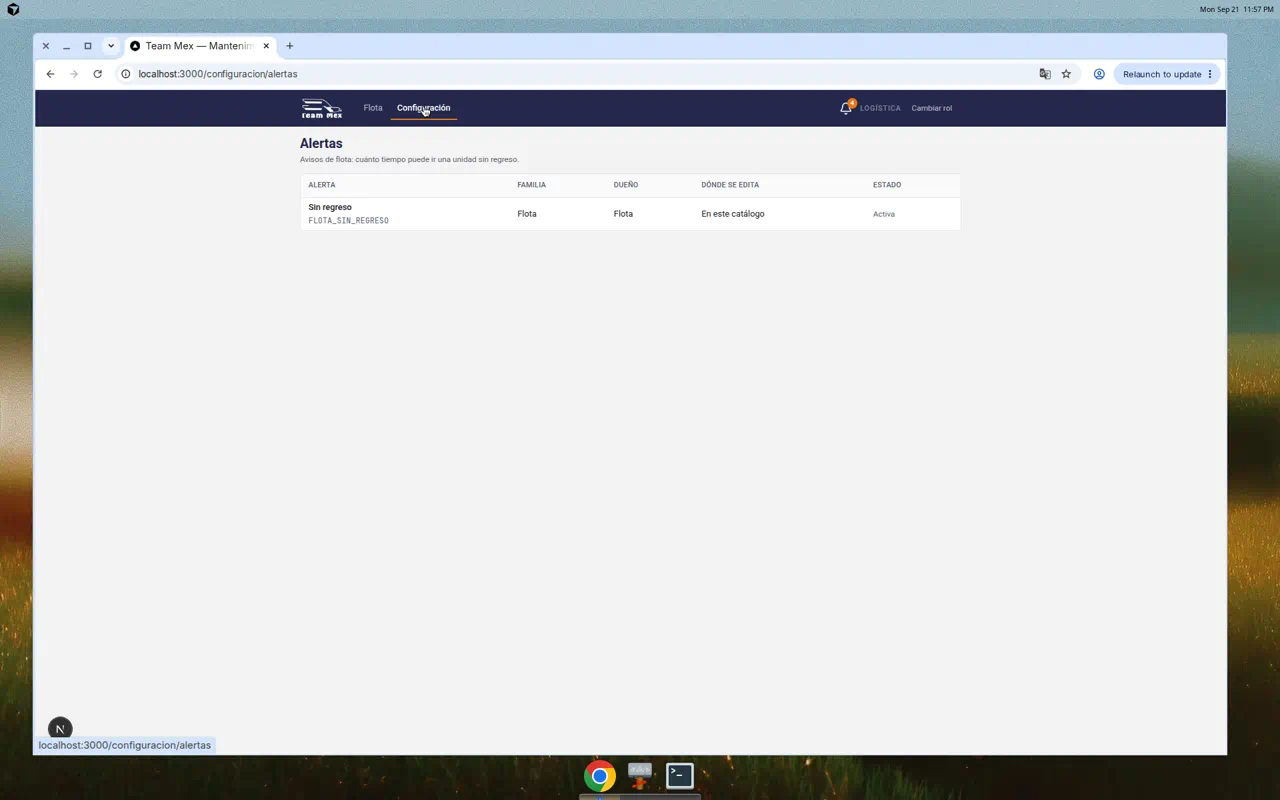
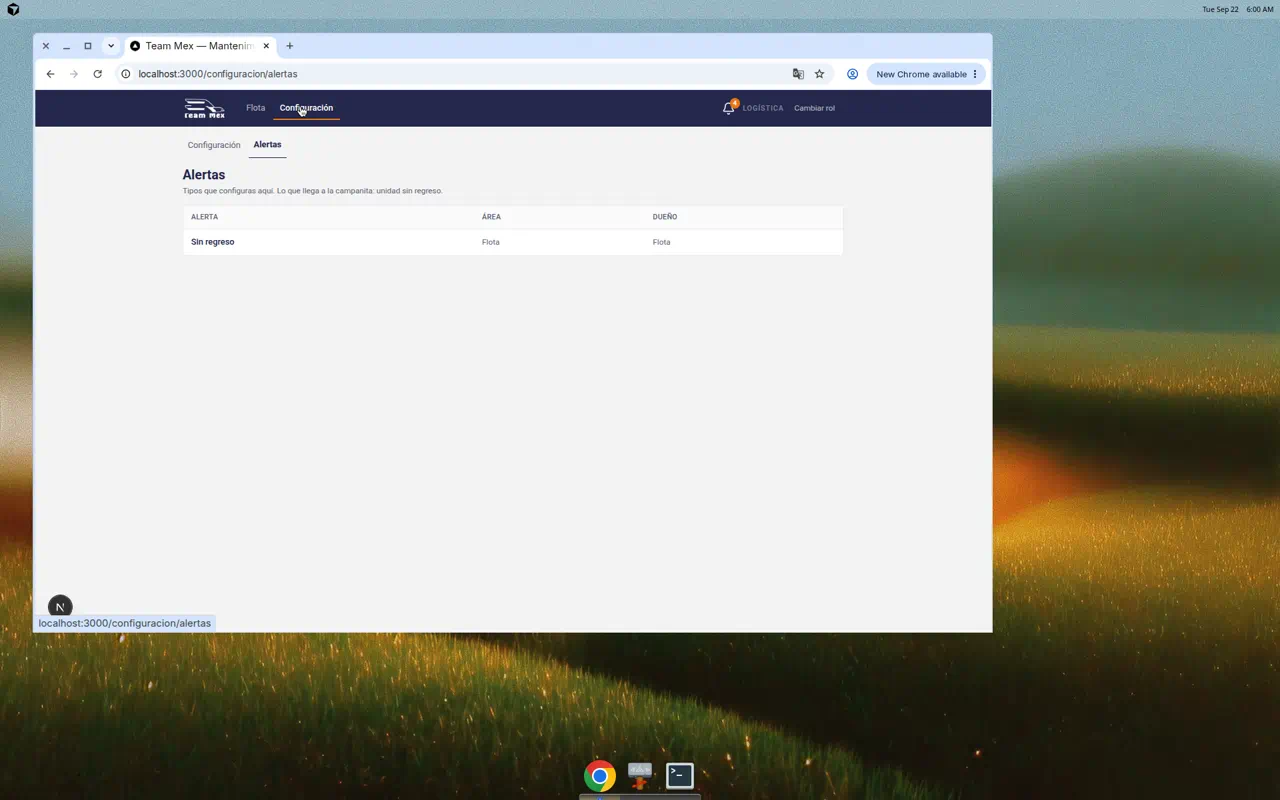
EWO-004: polish Configuración → Alertas catalog UI
EWO-004 polish: product names P0, no architecture column, one Admin orange, Configuración subnav. Experience Context Accepted gate cleared.

diff --git a/web/src/app/configuracion/alertas/page.tsx b/web/src/app/configuracion/alertas/page.tsx
@@ -3,7 +3,6 @@
 import { FormEvent, useEffect, useMemo, useState } from 'react';
 import { useRouter, useSearchParams } from 'next/navigation';
 import { ColumnDef } from '@tanstack/react-table';
-import { RoleGate } from '@/components/RoleGate';
 import { Badge } from '@/components/ui/badge';
 import { Button } from '@/components/ui/button';
 import { DataTable } from '@/components/ui/data-table';
@@ -41,16 +40,18 @@ function etiquetaModulo(mod: AlertOwningModule) {
   return 'Mantenimiento';
 }
 
-function etiquetaModo(mode: ThresholdMode) {
-  return mode === 'CATALOG' ? 'En este catálogo' : 'En el módulo';
+function ledeParaRol(role: Role | null) {
+  if (role === 'LOGISTICA') {
+    return 'Tipos que configuras aquí. Lo que llega a la campanita: unidad sin regreso.';
+  }
+  if (role === 'SUPERVISOR') {
+    return 'Tipos que configuras aquí. Lo que llega a la campanita: mantenimiento, existencias y salud.';
+  }
+  return 'Tipos que configuras aquí. Lo que llega a la campanita. Alta y baja solo en esta lista.';
 }
 
 export default function ConfiguracionAlertasPage() {
-  return (
-    <RoleGate allow={['SUPERVISOR', 'ADMIN_DIRECTIVO', 'LOGISTICA']}>
-      <CatalogContent />
-    </RoleGate>
-  );
+  return <CatalogContent />;
 }
 
 function CatalogContent() {
@@ -91,54 +92,46 @@ function CatalogContent() {
     // eslint-disable-next-line react-hooks/exhaustive-deps
   }, [role, userId, wantedCode]);
 
-  const columns = useMemo<ColumnDef<AlertType, unknown>[]>(
-    () => [
+  const columns = useMemo<ColumnDef<AlertType, unknown>[]>(() => {
+    const cols: ColumnDef<AlertType, unknown>[] = [
       {
         accessorKey: 'label',
         header: 'Alerta',
         cell: ({ row }) => (
-          <span>
-            <span className="font-medium">{row.original.label}</span>
-            <span className="mt-0.5 block font-mono text-[12px] text-muted-foreground">
-              {row.original.code}
-            </span>
-          </span>
+          <span className="font-medium text-navy">{row.original.label}</span>
         ),
       },
       {
         accessorKey: 'family',
-        header: 'Familia',
-        cell: ({ row }) => etiquetaFamilia(row.original.family),
+        header: 'Área',
+        cell: ({ row }) => (
+          <span className="text-[12px] text-muted-foreground">
+            {etiquetaFamilia(row.original.family)}
+          </span>
+        ),
       },
       {
         accessorKey: 'owningModule',
         header: 'Dueño',
-        cell: ({ row }) => etiquetaModulo(row.original.owningModule),
+        cell: ({ row }) => (
+          <span className="text-[12px] text-muted-foreground">
+            {etiquetaModulo(row.original.owningModule)}
+          </span>
+        ),
       },
-      {
-        accessorKey: 'thresholdMode',
-        header: 'Dónde se edita',
-        cell: ({ row }) => etiquetaModo(row.original.thresholdMode),
-      },
-      {
+    ];
+    if (isAdmin && (rows ?? []).some((row) => !row.active)) {
+      cols.push({
         accessorKey: 'active',
         header: 'Estado',
         cell: ({ row }) =>
-          isAdmin ? (
-            row.original.active ? (
-              <Badge variant="success">Activa</Badge>
-            ) : (
-              <Badge variant="muted">Inactiva</Badge>
-            )
-          ) : (
-            <span className="text-[12px] text-muted-foreground">
-              {row.original.active ? 'Activa' : 'Inactiva'}
-            </span>
+          row.original.active ? null : (
+            <Badge variant="muted">Inactiva</Badge>
           ),
-      },
-    ],
-    [isAdmin],
-  );
+      });
+    }
+    return cols;
+  }, [isAdmin, rows]);
 
   function openType(row: AlertType) {
     setSelected(row);
@@ -152,18 +145,11 @@ function CatalogContent() {
     router.replace('/configuracion/alertas');
   }
 
-  const lede =
-    role === 'LOGISTICA'
-      ? 'Avisos de flota: cuánto tiempo puede ir una unidad sin regreso.'
-      : role === 'SUPERVISOR'
-        ? 'Avisos de mantenimiento, existencias y salud. Lo que llega a la campanita.'
-        : 'Tipos de aviso de mantenimiento y flota. Alta y baja solo aquí.';
-
   return (
     <div className="unidades-page">
       <PageHeader
         title="Alertas"
-        lede={lede}
+        lede={ledeParaRol(role)}
         actions={
           isAdmin ? (
             <Button type="button" onClick={() => setCreateOpen(true)}>
@@ -275,7 +261,7 @@ function CreateAlertDialog({
           <DialogHeader>
             <DialogTitle>Nueva alerta</DialogTitle>
             <DialogDescription>
-              El código no cambia después.
+              Nombre que ve el taller. El código queda fijo.
             </DialogDescription>
           </DialogHeader>
           <div className="grid gap-3 py-3">
@@ -296,7 +282,7 @@ function CreateAlertDialog({
                 required
               />
             </Field>
-            <Field label="Familia" htmlFor="alerta-familia">
+            <Field label="Área" htmlFor="alerta-familia">
               <NativeSelect
                 id="alerta-familia"
                 value={family}
@@ -306,7 +292,7 @@ function CreateAlertDialog({
                 <option value="FLOTA">Flota</option>
               </NativeSelect>
             </Field>
-            <Field label="Módulo dueño" htmlFor="alerta-modulo">
+            <Field label="Dueño" htmlFor="alerta-modulo">
               <NativeSelect
                 id="alerta-modulo"
                 value={owningModule}
@@ -321,7 +307,7 @@ function CreateAlertDialog({
                 <option value="OTRO">Otro</option>
               </NativeSelect>
             </Field>
-            <Field label="Dónde se edita" htmlFor="alerta-modo">
+            <Field label="Se ajusta en" htmlFor="alerta-modo">
               <NativeSelect
                 id="alerta-modo"
                 value={thresholdMode}
@@ -329,8 +315,8 @@ function CreateAlertDialog({
                   setThresholdMode(e.target.value as ThresholdMode)
                 }
               >
-                <option value="MODULE">En el módulo</option>
-                <option value="CATALOG">En este catálogo</option>
+                <option value="MODULE">Unidades o existencias</option>
+                <option value="CATALOG">Esta lista</option>
               </NativeSelect>
             </Field>
             <label className="flex items-center gap-2 text-[13px]">
@@ -351,8 +337,8 @@ function CreateAlertDialog({
             >
               Cancelar
             </Button>
-            <Button type="submit" disabled={saving}>
-              {saving ? 'Guardando…' : 'Crear'}
+            <Button type="submit" variant="outline" disabled={saving}>
+              {saving ? 'Guardando…' : 'Guardar'}
             </Button>
           </DialogFooter>
         </form>
@@ -531,13 +517,17 @@ function TypeEditorDialog({
           <DialogHeader>
             <DialogTitle>{type.label}</DialogTitle>
             <DialogDescription>
-              {etiquetaFamilia(type.family)} · {etiquetaModulo(type.owningModule)}{' '}
-              · {etiquetaModo(type.thresholdMode)}
+              {etiquetaFamilia(type.family)} · {etiquetaModulo(type.owningModule)}
+              {isAdmin ? (
+                <span className="mt-0.5 block font-mono text-[12px] font-normal">
+                  {type.code}
+                </span>
+              ) : null}
             </DialogDescription>
           </DialogHeader>
           <div className="grid gap-3 py-3">
             {loading ? (
-              <p className="muted">Cargando configuración…</p>
+              <p className="muted">Cargando…</p>
             ) : (
               <>
                 {type.code === 'MTTO_VENCIDO' && payload?.umbrales ? (
@@ -599,13 +589,13 @@ function TypeEditorDialog({
                 {type.code === 'STOCK_BAJO' && payload?.items ? (
                   <div className="grid gap-2">
                     <p className="text-[13px] text-muted-foreground">
-                      Avisar cuando queden. Vacío = no avisar. También se edita en
+                      Avisar si quedan. Vacío = no avisar. También se edita en
                       Existencias.
                     </p>
                     {payload.items.map((row) => (
                       <Field
                         key={row.itemId}
-                        label={`${row.sku} · ${etiquetaMinimo(row.minQty)}`}
+                        label={`${row.nombre} · ${etiquetaMinimo(row.minQty)}`}
                         htmlFor={`min-${row.itemId}`}
                       >
                         <Input
@@ -663,11 +653,11 @@ function TypeEditorDialog({
                   <>
                     <Field
                       label="Local (horas)"
-                      htmlFor="umbral-local"
+                      htmlFor="horas-local"
                       help="Sale de CEDIS / patio. Reloj desde registrar salida."
                     >
                       <Input
-                        id="umbral-local"
+                        id="horas-local"
                         type="number"
                         min={1}
                         value={localH}
@@ -677,11 +667,11 @@ function TypeEditorDialog({
                     </Field>
                     <Field
                       label="Foránea (horas)"
-                      htmlFor="umbral-foraneo"
+                      htmlFor="horas-foraneo"
                       help="Viaje fuera. Reloj desde registrar salida."
                     >
                       <Input
-                        id="umbral-foraneo"
+                        id="horas-foraneo"
                         type="number"
                         min={1}
                         value={foraneoH}
@@ -723,7 +713,11 @@ function TypeEditorDialog({
                 Cancelar
               </Button>
               {canEditValues ? (
-                <Button type="submit" variant="outline" disabled={saving || loading}>
+                <Button
+                  type="submit"
+                  variant={isAdmin ? 'outline' : 'default'}
+                  disabled={saving || loading}
+                >
                   {saving ? 'Guardando…' : 'Guardar'}
                 </Button>
               ) : null}

diff --git a/web/src/components/ConfiguracionNav.tsx b/web/src/components/ConfiguracionNav.tsx
@@ -1,0 +1,21 @@
+'use client';
+
+import Link from 'next/link';
+
+/** Ubicación de sección (patrón 3 + chrome `.subnav`). No es sidebar de settings. */
+export function ConfiguracionNav() {
+  return (
+    <nav className="subnav" aria-label="Configuración">
+      <span className="inline-flex min-h-[var(--tap)] items-center px-2 text-[13px] text-muted-foreground">
+        Configuración
+      </span>
+      <Link
+        href="/configuracion/alertas"
+        className="active"
+        aria-current="page"
+      >
+        Alertas
+      </Link>
+    </nav>
+  );
+}

diff --git a/web/src/app/configuracion/layout.tsx b/web/src/app/configuracion/layout.tsx
@@ -1,0 +1,17 @@
+'use client';
+
+import { ConfiguracionNav } from '@/components/ConfiguracionNav';
+import { RoleGate } from '@/components/RoleGate';
+
+export default function ConfiguracionLayout({
+  children,
+}: {
+  children: React.ReactNode;
+}) {
+  return (
+    <RoleGate allow={['SUPERVISOR', 'ADMIN_DIRECTIVO', 'LOGISTICA']}>
+      <ConfiguracionNav />
+      {children}
+    </RoleGate>
+  );
+}

diff --git a/docs/design/PAGE_PATTERNS.md b/docs/design/PAGE_PATTERNS.md
@@ -28,7 +28,7 @@ No gráficas, no KPIs, no feed, no campanita duplicada.
 
 ## 3. Listado denso + filtro
 
-**Rutas:** Andon, Existencias, Refacciones, Movimientos, Por recibir, Flota (ops visual), Choferes, Sitios, Notificaciones.
+**Rutas:** Andon, Existencias, Refacciones, Movimientos, Por recibir, Flota (ops visual), Choferes, Sitios, Notificaciones, Configuración → Alertas.
 
 ```
 PageHeader (H1 + lede + acciones)
@@ -40,8 +40,9 @@ empty-state | “Cargando …”
 
 Unidades / Existencias (post-#65 revert): KPI strip + `unidades-toolbar` / tabla, no Mode B `ListChrome`. Flota visual Logística: same pre-#62 KPI strip (`unidades-kpis--ops`) + tabla; no assign desk.
 
-- Un naranja en header si hay alta/entrada; Flota Sitios / Configurar alertas = secondary.
+- Un naranja en header si hay alta/entrada; Flota Sitios / Configurar alertas = secondary. Configuración → Alertas: Admin **Nueva alerta** (`default`); Supervisor/Logística cero naranja (la fila abre el diálogo).
 - Fila clickeable → ficha o hub. Evitar “Detalle”.
+- Configuración v0: `.subnav` con **Configuración** muted + **Alertas** activo (ubicación). Mismo chrome que Inventario/Flota — **no** sidebar de settings (anti-patrón). No es un patrón de página extra.
 - Filtros enumerados = `ListFilter` (chips). Búsqueda de texto = `Input` en el header o una fila, **sin** card de un solo campo (Choferes es deuda).
 - URL comparte filtros cuando el corte lo pide (`?alerta=`, `?filtro=`, movimientos).
 
